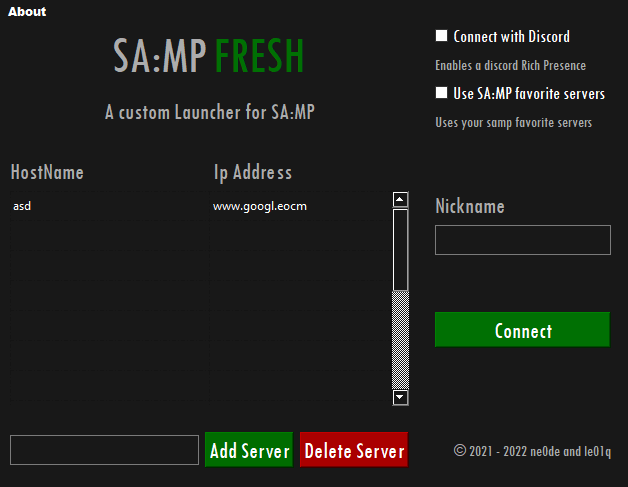
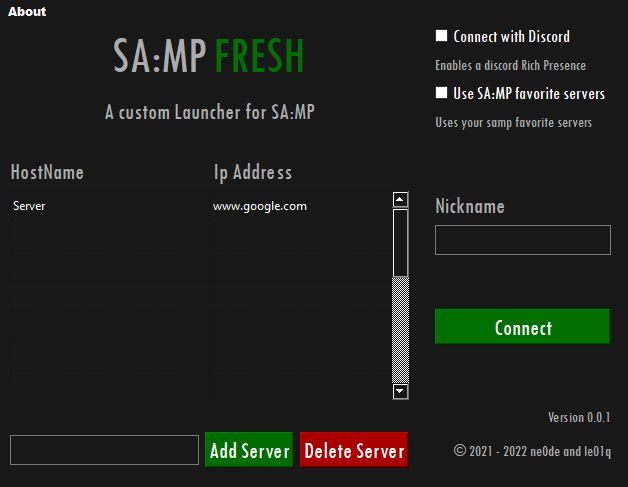
fixed some issues

diff --git a/src/SampFresh.py b/src/SampFresh.py
@@ -7,12 +7,11 @@ from pypresence import Presence
 from core import Core
 from time import time, sleep
 from threading import Thread
-from screeninfo import get_monitors
+from requests import get
 
 
 class SampFresh(QMainWindow):
     gta_running = choosing_monitor = False
-    screens = get_monitors()
     player_name = samp_path = address = ''
 
     def __init__(self, app, client_id):
@@ -112,16 +111,15 @@ class SampFresh(QMainWindow):
 
     def Connect(self):
         if not self.samp_path:
-            return self.error('SA:MP not found', 'SA:MP is not installed on your machine.', 'Install SA:MP to continue.')
+            return self.error('SA:MP Not Found', 'SA:MP is not installed on your machine.', 'Install SA:MP to continue.')
 
         if self.core.IsProcessRunning('gta_sa.exe'):
-            return self.error('GTA process', 'GTA is currently running.', 'Close it to connect.')
+            return self.error('GTA Process', 'GTA is currently running.', 'Close it to connect.')
 
         if not self.GetSelectedServer():
-            return self.error('Invalid server', "Can't connect to 'Empty' server.", 'Select a server to continue.', icon=QMessageBox.Warning)
+            return self.error('Invalid Server', "Can't connect to 'Empty' server.", 'Select a server to continue.', icon=QMessageBox.Warning)
 
         self.address = self.GetSelectedServer()
-        self.choosing_monitor = len(self.screens) > 1
         self.core.StartProcess([self.samp_path, self.address])
         self.gta_running = True
 
@@ -172,11 +170,25 @@ class SampFresh(QMainWindow):
             return
         self.ui.discordCheckbox.setChecked(data['discordrpc'])
 
+    def CheckUpdates(self):
+        res = get('https://api.github.com/repos/le01q/samp-fresh/releases')
+        try:
+            res.raise_for_status()
+        except:
+            return self.error('SA:MP Fresh Updates', "Can't check new updates", icon=QMessageBox.Critical)
+        versions = []
+        for key in res.json():
+            versions.append(key['tag_name'])
+        if versions[0] != self.core.VERSION:
+            return self.error('SA:MP Fresh Updates', f"A new update {versions[0]} is available", f'Your current version is {self.core.VERSION}', icon=QMessageBox.Warning)
+
     def Initialize(self):
         self.ConnectElements()
         self.GetSampPath()
         self.LoadServers()
         self.LoadConfig()
+        self.CheckUpdates()
         if self.samp_path:
             self. ui.nicknameLine.setText(self.GetPlayerName())
         self.gta_running = self.core.IsProcessRunning('gta_sa.exe')
+        self.ui.label_11.setText(f'Version: {self.core.VERSION}')

diff --git a/src/gui.py b/src/gui.py
@@ -7,6 +7,7 @@ from PyQt5 import QtCore, QtGui, QtWidgets
 
 class Ui_MainWindow(object):
     def setupUi(self, MainWindow):
+        MainWindow.setWindowIcon(QtGui.QIcon('sampfreshdark.jpg'))
         MainWindow.setObjectName("MainWindow")
         MainWindow.resize(628, 487)
         MainWindow.setFixedSize(628, 487)
@@ -276,6 +277,17 @@ class Ui_MainWindow(object):
         font.setFamily("Arial Black")
         font.setBold(True)
         font.setWeight(75)
+        self.label_11 = QtWidgets.QLabel(self.gridLayoutWidget_2)
+        font = QtGui.QFont()
+        font.setFamily("Tw Cen MT Condensed")
+        font.setPointSize(12)
+        font.setBold(False)
+        font.setWeight(50)
+        font.setStrikeOut(False)
+        self.label_11.setFont(font)
+        self.label_11.setStyleSheet("color: rgb(172, 172, 172);")
+        self.label_11.setObjectName("label_11")
+        self.gridLayout_2.addWidget(self.label_11, 8, 2, 1, 1, QtCore.Qt.AlignRight)
         self.menubar.setFont(font)
         self.menubar.setStyleSheet("color: rgb(255, 255, 255);\n"
 "selection-background-color: rgb(255, 255, 255);\n"
@@ -309,6 +321,7 @@ class Ui_MainWindow(object):
         self.discordCheckbox.setText(_translate("MainWindow", "Connect with Discord"))
         self.label_7.setText(_translate("MainWindow", "Enables a discord Rich Presence"))
         self.label_10.setText(_translate("MainWindow", "Uses your samp favorite servers"))
+        self.label_11.setText(_translate("MainWindow", "Version 0.0.1"))
         self.connectBtn.setText(_translate("MainWindow", "Connect"))
         self.addBtn.setText(_translate("MainWindow", "Add Server"))
         self.deleteBtn.setText(_translate("MainWindow", "Delete Server"))

diff --git a/src/main.py b/src/main.py
@@ -6,6 +6,6 @@ from sampfresh import SampFresh
 
 if __name__ == "__main__":
     app = QApplication(argv)
-    window = SampFresh(app, :o)
+    window = SampFresh(app, 929135097154768988)
     window.show()
     exit(app.exec_())

diff --git a/src/core.py b/src/core.py
@@ -5,6 +5,7 @@ from os import getenv, makedirs
 
 
 class Core:
+    VERSION = '0.0.1'
     if platform == 'win32':
         path = getenv('USERPROFILE') + r'\Documents\SAMPFresh'
 
